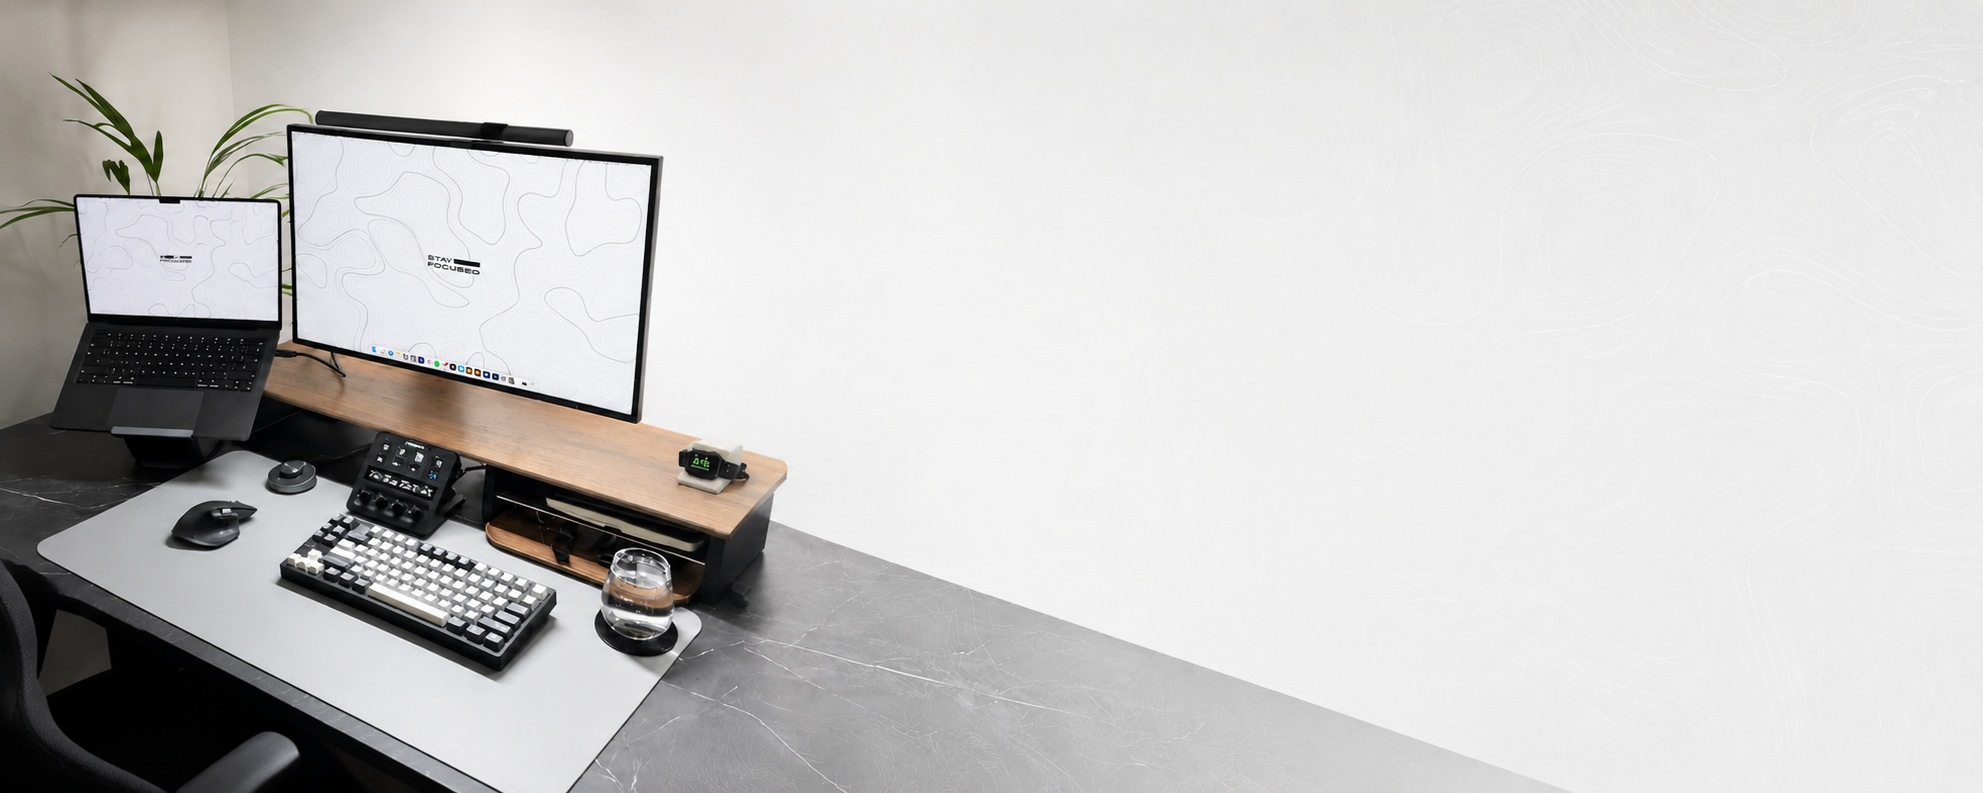
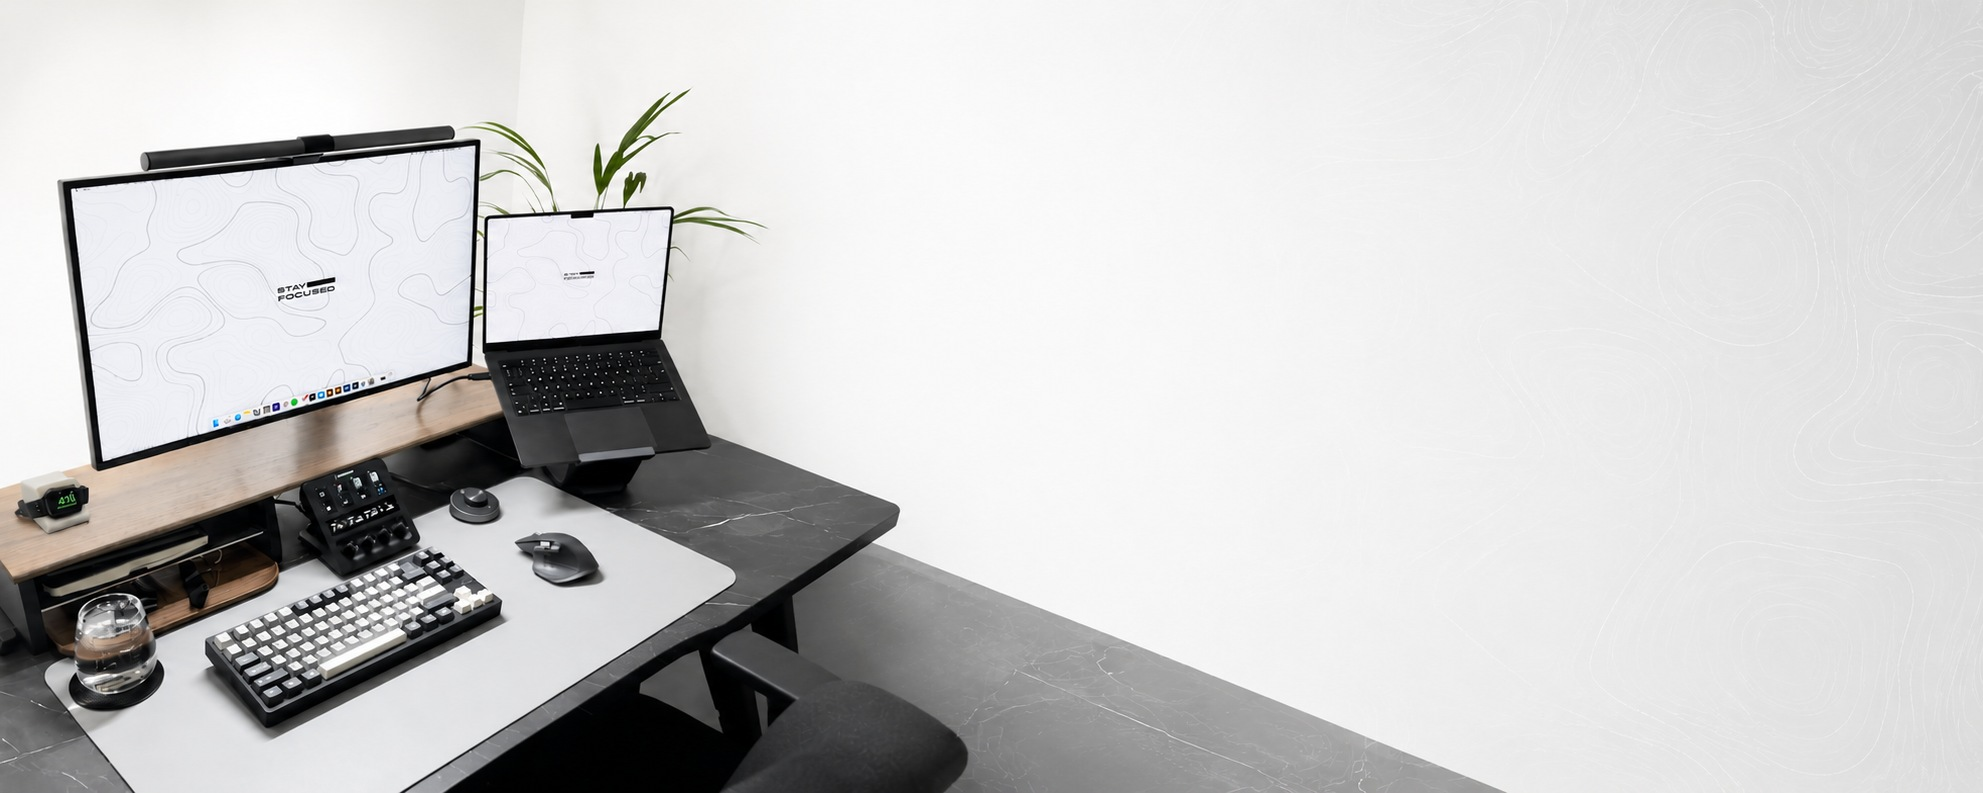
style: nouveau fond setup 3 + enveloppe frosted glass derrière le texte Hero

diff --git a/src/components/sections/Hero.tsx b/src/components/sections/Hero.tsx
@@ -15,8 +15,16 @@ export function Hero() {
       {/* Layout 2 colonnes */}
       <div className="relative z-10 w-full max-w-7xl mx-auto px-6 lg:px-8 py-32 grid grid-cols-1 lg:grid-cols-2 gap-12 lg:gap-20 items-center">
 
-        {/* Colonne gauche — texte */}
-        <div>
+        {/* Colonne gauche — texte avec enveloppe frosted glass */}
+        <div
+          className="rounded-2xl p-8"
+          style={{
+            backgroundColor: 'rgba(255,255,255,0.45)',
+            backdropFilter: 'blur(18px)',
+            WebkitBackdropFilter: 'blur(18px)',
+            border: '1px solid rgba(255,255,255,0.6)',
+          }}
+        >
           <div className="overflow-hidden mb-5">
             <motion.h1
               style={{
@@ -66,6 +74,7 @@ export function Hero() {
             </button>
           </motion.div>
         </div>
+        {/* Fin enveloppe frosted glass */}
 
         {/* Colonne droite — photo */}
         <motion.div